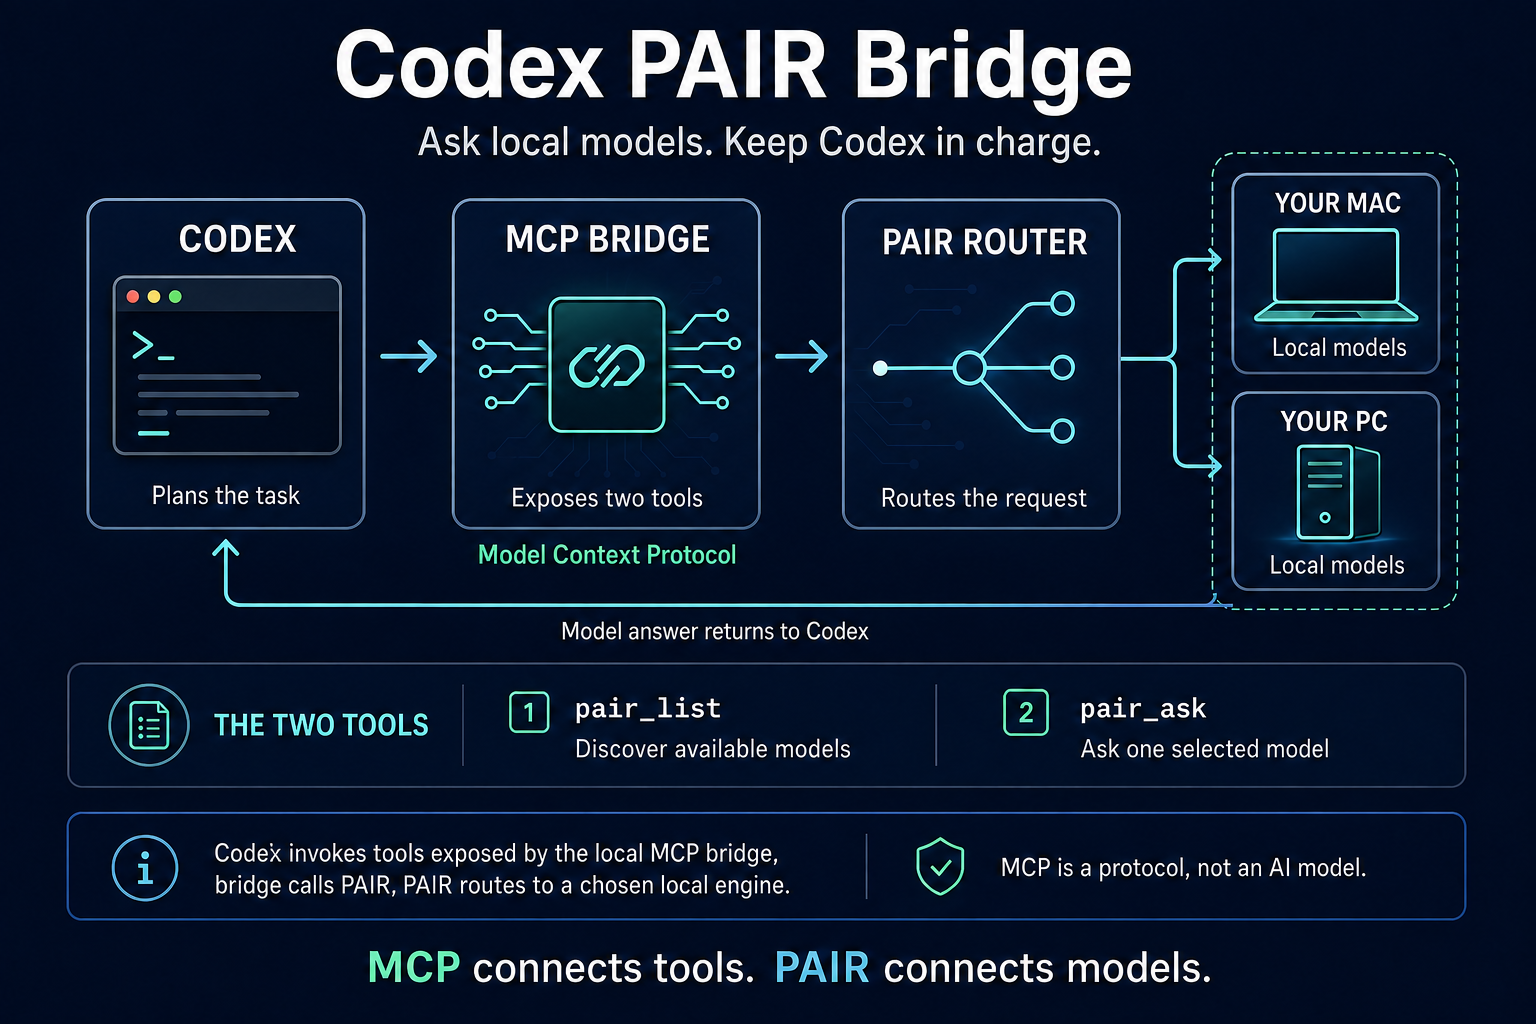
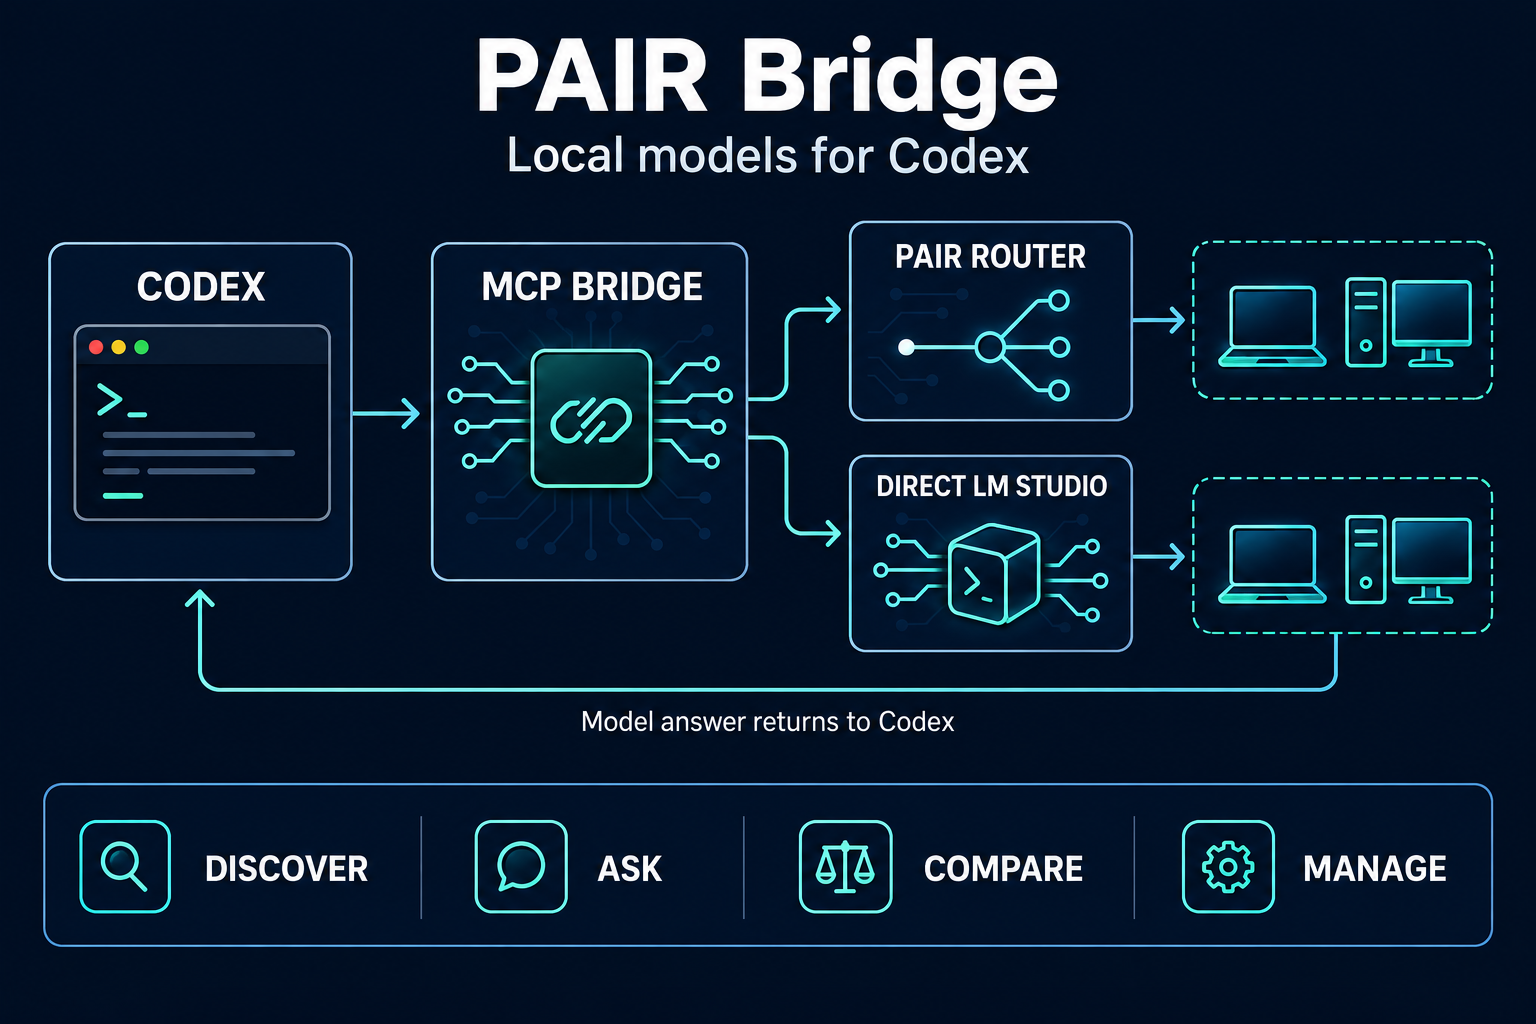
docs: refresh MCP architecture illustration

Changed region(s): [[0.0312, 0.0312, 0.9688, 0.9688]]

diff --git a/README.ru.md b/README.ru.md
@@ -9,7 +9,7 @@
 
 [Быстрый старт](#быстрый-старт) · [Как работает MCP](#что-здесь-делает-mcp) · [Инструменты](#справочник-инструментов) · [English](README.md)
 
-![Codex обращается к MCP-инструментам, мост передаёт запрос в PAIR, а PAIR направляет его локальной модели](docs/assets/mcp-explained.png)
+![PAIR Bridge соединяет Codex через MCP с локальными моделями: через маршрутизатор PAIR или напрямую с устройствами LM Studio](docs/assets/mcp-explained.png)
 
 [![Тесты](https://github.com/GermanMik/pair-bridge/actions/workflows/test.yml/badge.svg)](https://github.com/GermanMik/pair-bridge/actions/workflows/test.yml)
 [![Лицензия MIT](https://img.shields.io/badge/License-MIT-mint.svg)](LICENSE)
@@ -47,7 +47,7 @@
 
 **MCP подключает инструменты. PAIR маршрутизирует запросы к моделям.** Основная модель Codex продолжает вести задачу, а локальная модель выступает помощником и возвращает текст для проверки.
 
-На картинке показан маршрут через PAIR. Мост также умеет напрямую управлять явно настроенными устройствами LM Studio.
+На картинке показаны оба маршрута: PAIR может выбрать сервер модели, либо мост обратится напрямую к явно настроенному устройству LM Studio.
 
 ## Как это выглядит в разговоре
 

diff --git a/README.md b/README.md
@@ -9,7 +9,7 @@ Discover models across devices · ask for a second opinion · compare answers ·
 
 [Get started](#get-started) · [See how MCP works](#what-does-mcp-actually-do) · [Explore the tools](#tool-reference) · [Русский](README.ru.md)
 
-![How Codex uses MCP tools to ask local models through PAIR](docs/assets/mcp-explained.png)
+![PAIR Bridge connects Codex through MCP to local models via PAIR routing or direct LM Studio devices](docs/assets/mcp-explained.png)
 
 [![Tests](https://github.com/GermanMik/pair-bridge/actions/workflows/test.yml/badge.svg)](https://github.com/GermanMik/pair-bridge/actions/workflows/test.yml)
 [![License: MIT](https://img.shields.io/badge/License-MIT-mint.svg)](LICENSE)
@@ -46,6 +46,8 @@ Think of the workflow as four jobs:
 | **Local model** | Generate an answer. | Return review comments to Codex. |
 
 **MCP is the tool connection; PAIR is the model router.** The bridge does not turn a local model into the main Codex model. Codex continues coordinating your task, and the consulted model returns text for Codex to assess.
+
+The diagram shows both supported paths: PAIR can route a request, or the bridge can target a configured LM Studio device directly.
 
 ## A real example
 
